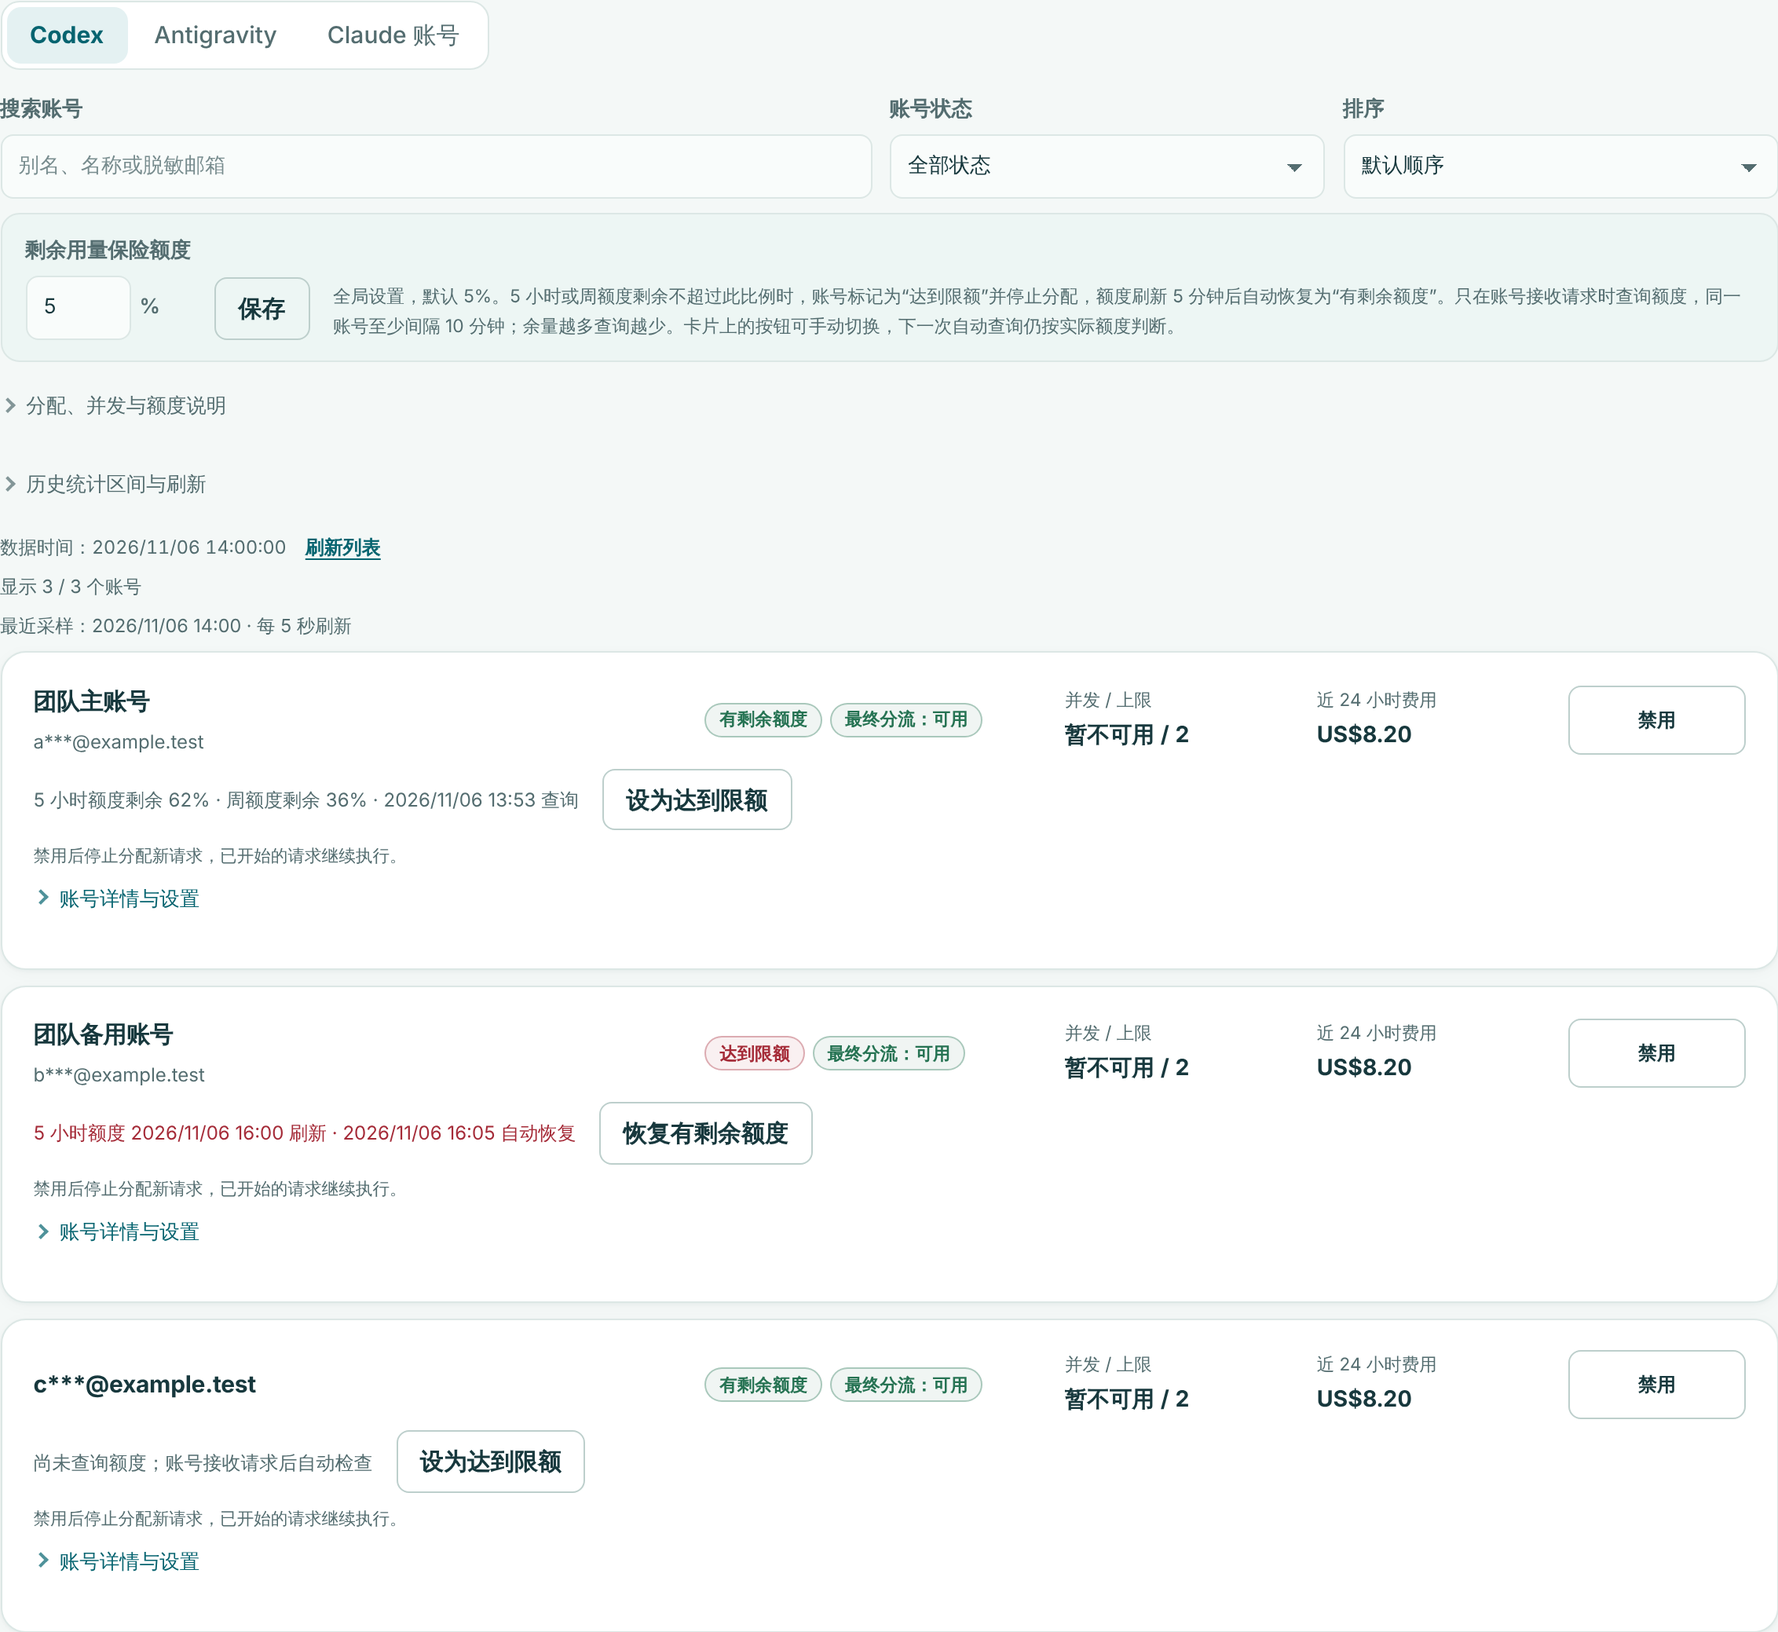
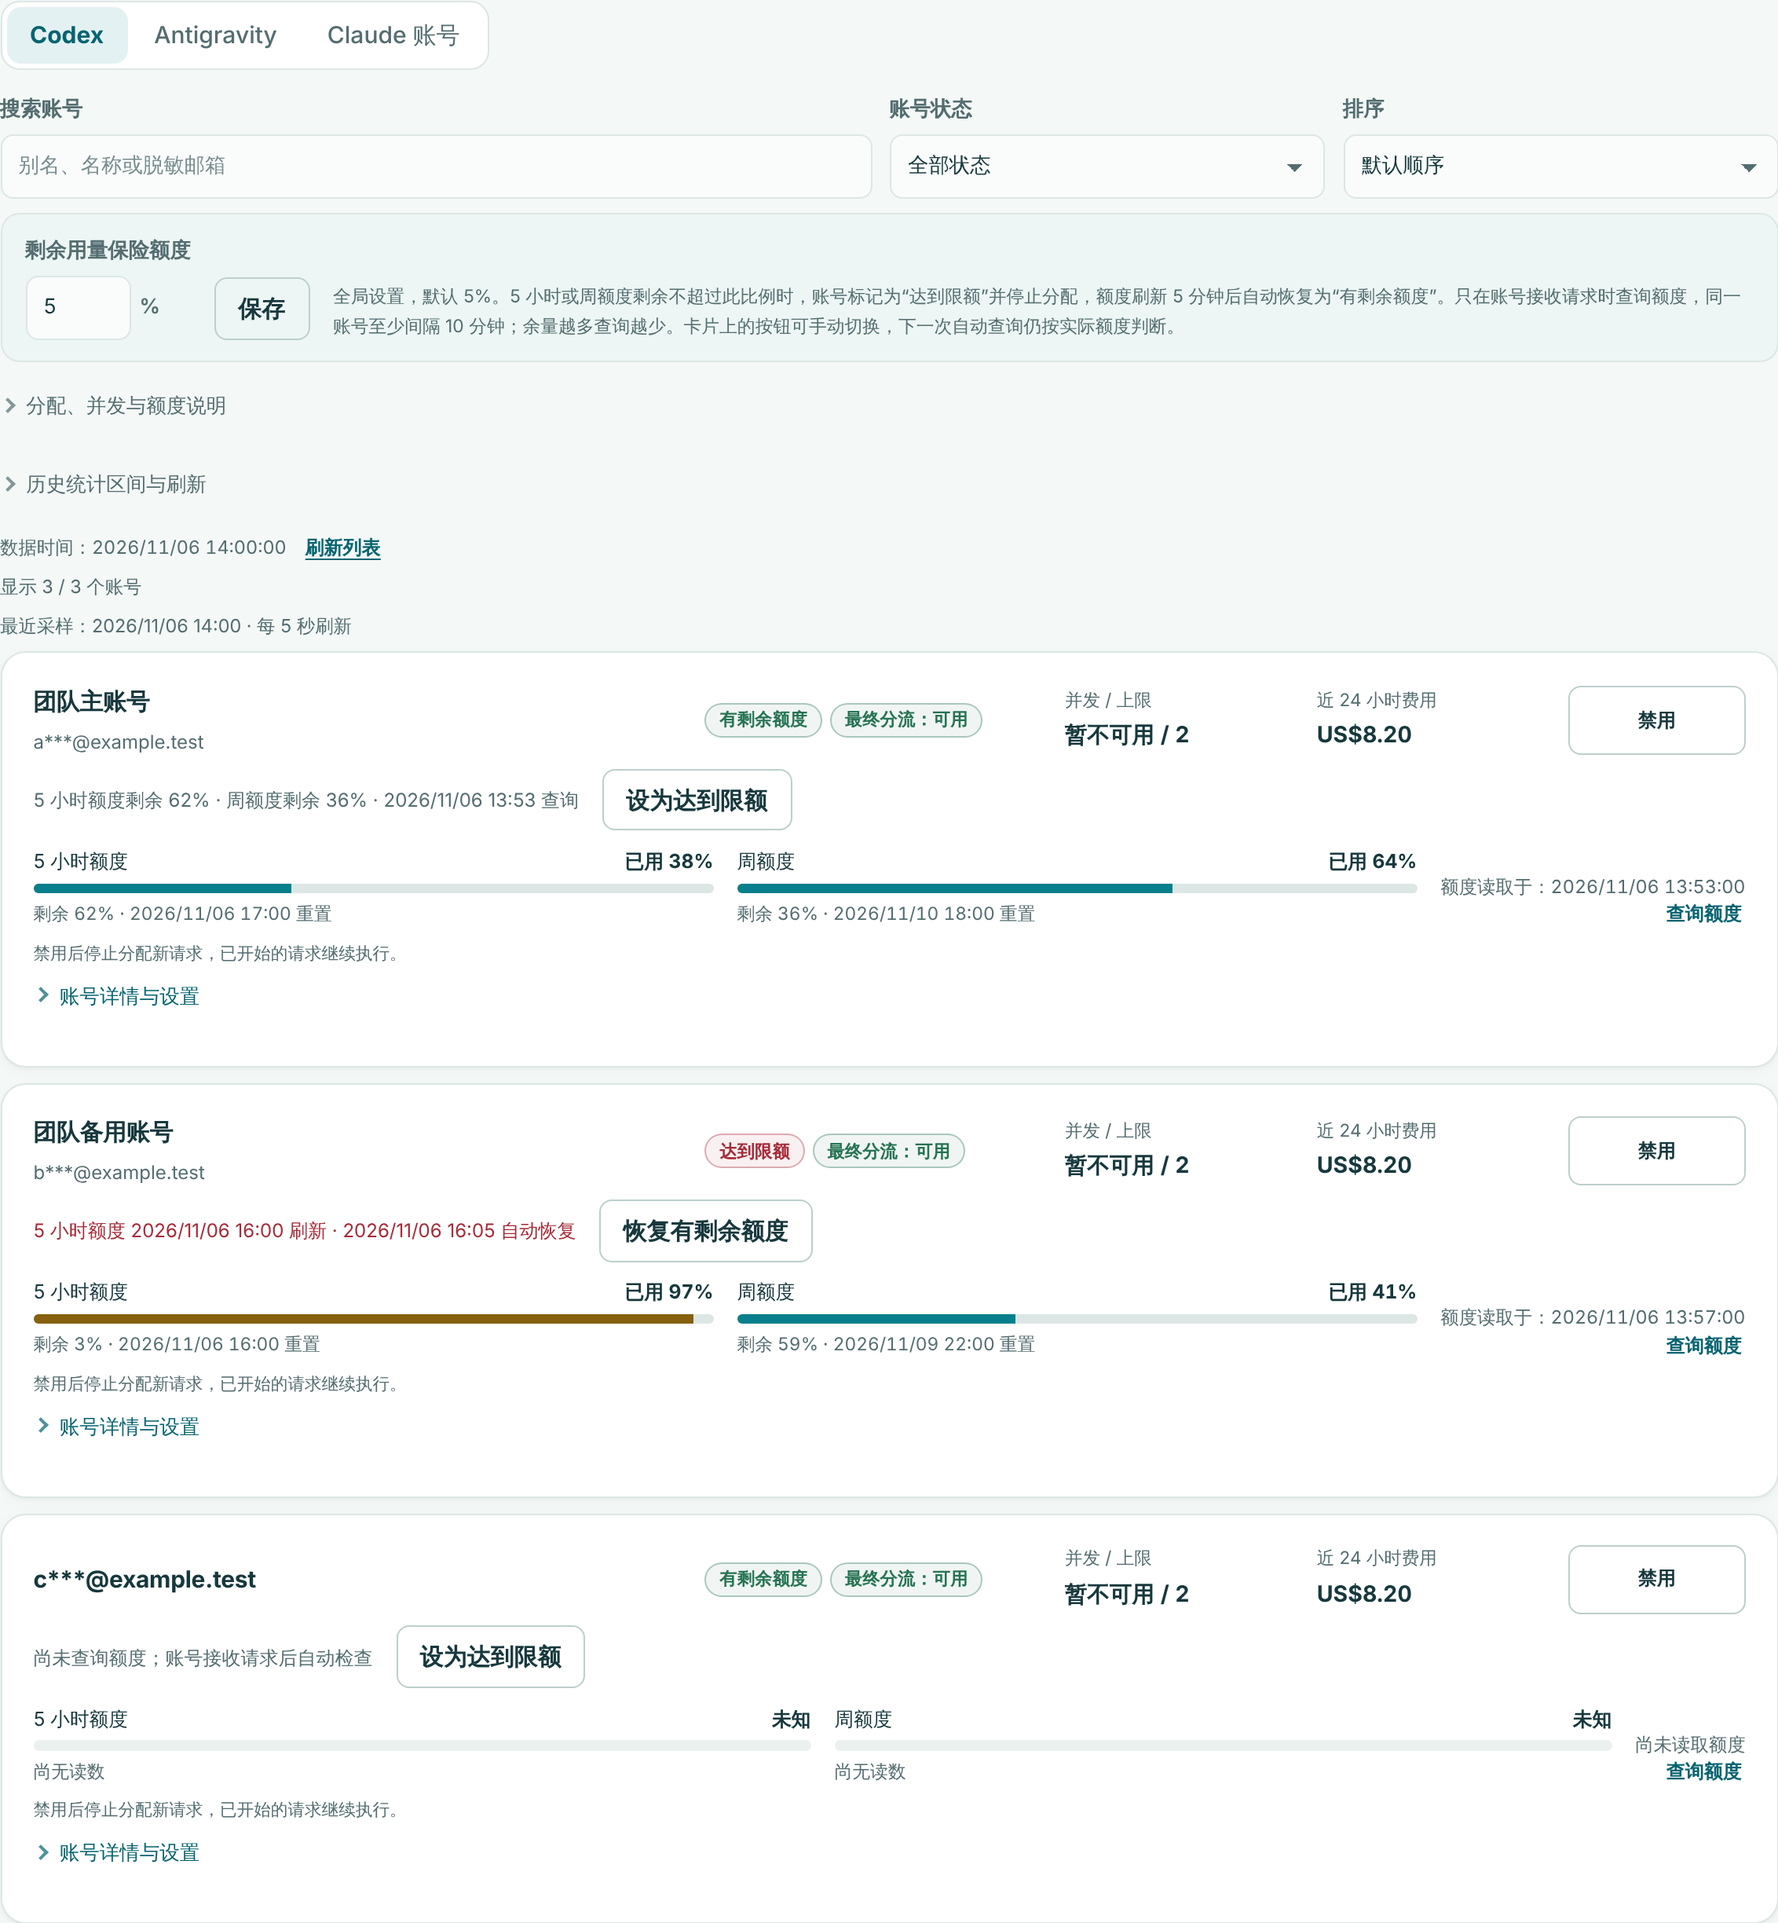
Draw upstream account quota as line bars
Codex and Claude account cards now show the latest 5-hour and weekly
readings from quota_guard as bars with used and remaining percent, reset
time and when they were read; windows at 90% or more turn amber next to
the existing limit badge, and a window whose reset has passed shows as
reset instead of a stale bar. The bars' refresh runs the existing live
quota query and folds the result into the card without reloading the
list. Live quota windows in the account details get the same bars.

Claude-Session: https://claude.ai/code/session_01SG9iqGoSGZ1MM4WDzixgM4

diff --git a/internal/server/assets/app.js b/internal/server/assets/app.js
@@ -483,11 +483,11 @@ function formatDataTime(value, fallback = "未知时间") {
  * balance. `at` is the moment the response arrived (or the upstream's own
  * observation time when one is reported); `label` names what the time means.
  */
-function quotaFreshness({at = null, label = "数据时间", pending = "", onRefresh = null, refreshLabel = "刷新", subject = "额度", className = ""} = {}) {
+function quotaFreshness({at = null, label = "数据时间", pending = "", empty = "", onRefresh = null, refreshLabel = "刷新", subject = "额度", className = ""} = {}) {
   const valid = at && !Number.isNaN(new Date(at).getTime());
   const time = element("time", {
     className: "quota-freshness-time",
-    text: pending || (valid ? `${label}：${formatDataTime(at)}` : `${label}：尚未加载`),
+    text: pending || (valid ? `${label}：${formatDataTime(at)}` : empty || `${label}：尚未加载`),
     attributes: {datetime: valid && !pending ? new Date(at).toISOString() : null},
   });
   const node = element("div", {className: ["quota-freshness", className].filter(Boolean).join(" "), dataset: {state: pending ? "loading" : valid ? "ready" : "empty"}}, time);
@@ -718,6 +718,71 @@ function upstreamQuotaGuardDetail(account) {
     });
   if (!windows.length) return `${manual}尚未查询额度；账号接收请求后自动检查`;
   return `${manual}${windows.join(" · ")} · ${formatDateTime(guard.observed_at, "时间未知")} 查询`;
+}
+
+// Summary-card quota bars: the latest 5-hour and weekly readings the Gateway
+// holds for the account (from automatic checks or the Owner's last query).
+const upstreamQuotaBarProviders = ["codex", "anthropic"];
+
+function upstreamQuotaBar(label, window, now = Date.now()) {
+  const used = Number.isInteger(window?.used_percent) && window.used_percent >= 0 && window.used_percent <= 100 ? window.used_percent : null;
+  const reset = window?.reset_at ? new Date(window.reset_at) : null;
+  const refreshed = Boolean(reset && !Number.isNaN(reset.getTime()) && reset.getTime() <= now);
+  const level = used == null || refreshed ? "unknown" : used >= 90 ? "high" : "normal";
+  return element("div", {className: "upstream-quota-bar", dataset: {level}},
+    element("div", {className: "upstream-quota-bar-head"}, element("span", {text: label}),
+      element("strong", {text: used == null ? "未知" : refreshed ? "已重置" : `已用 ${used}%`})),
+    used == null || refreshed ? element("div", {className: "upstream-quota-bar-empty", attributes: {"aria-hidden": "true"}})
+      : element("progress", {className: "subscription-progress", attributes: {value: used, max: 100, "aria-label": `${label}已用比例`}}),
+    element("small", {text: used == null ? "尚无读数" : refreshed ? `${formatDateTime(reset)} 已重置，等待下次读取` : `剩余 ${100 - used}% · ${formatDateTime(reset, "重置时间未知")} 重置`}));
+}
+
+function renderUpstreamQuotaBars(host, account) {
+  if (!host) return;
+  const guard = account?.quota_guard && typeof account.quota_guard === "object" ? account.quota_guard : {};
+  // Rebuild only when the readings change, so periodic control syncs keep focus.
+  const signature = JSON.stringify([guard.five_hour ?? null, guard.seven_day ?? null, guard.observed_at ?? null]);
+  if (host.dataset.signature === signature && host.children?.length) return;
+  host.dataset.signature = signature;
+  host.replaceChildren(
+    upstreamQuotaBar("5 小时额度", guard.five_hour), upstreamQuotaBar("周额度", guard.seven_day),
+    quotaFreshness({at: guard.observed_at, label: "额度读取于", empty: "尚未读取额度", onRefresh: host.queryQuota,
+      refreshLabel: upstreamAccountProvider === "anthropic" ? "刷新状态" : "查询额度", subject: "该账号的 5 小时与周额度"}));
+}
+
+// Folds a live quota result into the account's readings so the summary bars
+// show what was just read. Codex reports minutes per window; Claude names them.
+function upstreamQuotaReadings(provider, result, receivedAt) {
+  const readings = {observed_at: new Date(receivedAt).toISOString()};
+  if (provider === "anthropic") {
+    if (result?.observed_at) readings.observed_at = result.observed_at;
+    for (const window of Array.isArray(result?.windows) ? result.windows : []) {
+      const used = Number(window?.used_percent);
+      if (!["five_hour", "seven_day"].includes(window?.window) || window.used_percent == null || !Number.isFinite(used) || used < 0 || used > 100) continue;
+      readings[window.window] = {used_percent: Math.round(used), reset_at: window.reset_at || null};
+    }
+    return readings;
+  }
+  const limits = result?.rateLimits && typeof result.rateLimits === "object" ? result.rateLimits : {};
+  for (const window of [limits.primary, limits.secondary]) {
+    if (!window || !Number.isInteger(window.usedPercent)) continue;
+    const name = {300: "five_hour", 10080: "seven_day"}[window.windowDurationMins];
+    if (!name) continue;
+    readings[name] = {used_percent: window.usedPercent,
+      reset_at: Number.isSafeInteger(window.resetsAt) && window.resetsAt > 0 ? new Date(window.resetsAt * 1000).toISOString() : null};
+  }
+  return readings;
+}
+
+function applyUpstreamQuotaReadings(account, provider, result, receivedAt) {
+  if (!account || !upstreamQuotaBarProviders.includes(provider)) return;
+  const readings = upstreamQuotaReadings(provider, result, receivedAt);
+  account.quota_guard = {...(account.quota_guard && typeof account.quota_guard === "object" ? account.quota_guard : {status: "unknown"}), ...readings};
+  const list = byId("upstream-account-list");
+  const card = list ? all(".upstream-account-card", list).find((node) => node.dataset.accountId === account.id) : null;
+  renderUpstreamQuotaBars(card?.querySelector(".upstream-quota-bars"), account);
+  const detail = card?.querySelector(".upstream-quota-guard-detail");
+  if (detail) detail.textContent = upstreamQuotaGuardDetail(account);
 }
 
 function upstreamAccountAPI(path) {
@@ -7876,9 +7941,10 @@ function upstreamQuotaWindow(bucketLabel, windowLabel, quotaWindow) {
     : null;
   const used = usedPercent == null ? "上游未返回" : `${usedPercent}%`;
   const remaining = usedPercent == null ? "上游未返回" : `${100 - usedPercent}%`;
-  return element("article", {className: "upstream-quota-window"},
+  return element("article", {className: "upstream-quota-window", dataset: {level: usedPercent == null ? "unknown" : usedPercent >= 90 ? "high" : "normal"}},
     element("strong", {text: `${bucketLabel} · ${windowLabel} · ${formatUpstreamQuotaDuration(value.windowDurationMins)}`}),
     element("span", {text: `已用 ${used} · 剩余 ${remaining}`}),
+    usedPercent == null ? null : element("progress", {className: "subscription-progress", attributes: {value: usedPercent, max: 100, "aria-label": `${bucketLabel}${windowLabel}已用比例`}}),
     element("small", {text: `重置：${formatUpstreamQuotaReset(value.resetsAt)}`}),
   );
 }
@@ -7971,9 +8037,11 @@ function renderAnthropicQuota(container, result) {
     element("div", {className: "upstream-quota-windows"}, ...["five_hour", "seven_day"].map(name => {
       const value = windows.find(item => item.window === name);
       const used = value?.used_percent;
-      return element("article", {className: "upstream-quota-window"},
+      const known = Number.isFinite(used) && used >= 0 && used <= 100;
+      return element("article", {className: "upstream-quota-window", dataset: {level: !known ? "unknown" : used >= 90 ? "high" : "normal"}},
         element("strong", {text: name === "five_hour" ? "五小时窗口" : "七天窗口"}),
-        element("span", {text: Number.isFinite(used) && used >= 0 && used <= 100 ? `已用 ${used}% · 剩余 ${100 - used}%` : "额度：未知"}),
+        element("span", {text: known ? `已用 ${used}% · 剩余 ${100 - used}%` : "额度：未知"}),
+        known ? element("progress", {className: "subscription-progress", attributes: {value: used, max: 100, "aria-label": `${name === "five_hour" ? "五小时窗口" : "七天窗口"}已用比例`}}) : null,
         element("small", {text: `重置：${formatDateTime(value?.reset_at, "未知")}`}),
         element("small", {text: `状态：${({allowed: "可用", allowed_warning: "接近限额", rejected: "达到限额", unknown: "未知"})[value?.status] || "未知"}`}),
       );
@@ -8002,6 +8070,7 @@ async function loadUpstreamQuota(account, quotaBlock, container) {
       if (!response || !Array.isArray(response.windows)) throw new Error("Claude 状态快照格式异常。");
       upstreamAccountRowState(account.id, provider).quota = {result: response, receivedAt: new Date()};
       renderAnthropicQuota(container, response);
+      applyUpstreamQuotaReadings(account, provider, response, new Date());
       announce("Claude 状态快照已刷新。");
       return;
     }
@@ -8012,6 +8081,7 @@ async function loadUpstreamQuota(account, quotaBlock, container) {
     if (!current()) return;
     upstreamAccountRowState(account.id, provider).quota = {result: response.result, receivedAt};
     renderUpstreamQuota(account, container, response.result, receivedAt);
+    applyUpstreamQuotaReadings(account, provider, response.result, receivedAt);
     announce(`已查询 ${upstreamAccountLabel(account, account.email_masked || "该上游账号")} 的官方额度。`);
   } catch (error) {
     if (!current()) return;
@@ -8052,6 +8122,7 @@ function syncUpstreamAccountControls() {
     if (guardRow) {
       guardRow.dataset.status = guardStatus;
       guardRow.querySelector(".upstream-quota-guard-detail").textContent = upstreamQuotaGuardDetail(account);
+      renderUpstreamQuotaBars(card.querySelector(".upstream-quota-bars"), account);
       const guardButton = guardRow.querySelector(".upstream-quota-guard-button");
       const switchingGuard = upstreamAccountOperation?.id === account.id && upstreamAccountOperation.kind === "quota_guard";
       guardButton.disabled = !account.id || guardStatus === "unknown" || upstreamAccountListLoading || Boolean(upstreamAccountOperation) || loggingOut || state?.user?.role !== "owner";
@@ -9351,6 +9422,12 @@ function upstreamAccountCard(account) {
     guardRow = element("div", {className: "upstream-quota-guard"},
       element("span", {className: "upstream-quota-guard-detail"}), guardButton);
   }
+  const quotaBars = upstreamQuotaBarProviders.includes(upstreamAccountProvider) && account.id
+    ? element("div", {className: "upstream-quota-bars", attributes: {"aria-label": "5 小时与周额度"}}) : null;
+  if (quotaBars) {
+    quotaBars.queryQuota = () => loadUpstreamQuota(account, quotaBlock, quotaResult);
+    renderUpstreamQuotaBars(quotaBars, account);
+  }
   const details = element("details", {className: "upstream-account-details"},
     element("summary", {text: "账号详情与设置"}),
     element("div", {className: "upstream-account-full-status"}, ...(guarded ? [upstreamQuotaGuardBadge(account)] : []), ...badges.slice(0, 3)),
@@ -9393,6 +9470,7 @@ function upstreamAccountCard(account) {
       statusButton,
     ),
     ...(guardRow ? [guardRow] : []),
+    ...(quotaBars ? [quotaBars] : []),
     element("p", {className: "upstream-account-manage-note hidden muted"}),
     element("p", {className: "upstream-summary-allocation-state hidden"}),
     element("small", {className: "upstream-status-impact", text: "禁用后停止分配新请求，已开始的请求继续执行。"}),

diff --git a/internal/server/assets/style.css b/internal/server/assets/style.css
@@ -4145,6 +4145,22 @@ button.share-bar-key:hover, .share-bar-key[aria-pressed="true"] { background: va
 .group-account-quota .billing-account-usage-card > small { color: var(--muted); font-size: .78rem; }
 .group-usage-account header small, .group-usage-account-summary { color: var(--muted); font-size: .78rem; font-variant-numeric: tabular-nums; }
 
+/* Upstream accounts: 5-hour and weekly readings as line bars on every card. */
+.upstream-quota-bars { display: grid; grid-template-columns: repeat(2, minmax(0, 1fr)) minmax(0, auto); align-items: end; gap: .5rem 1rem; margin-top: .65rem; }
+.upstream-quota-bar { display: grid; gap: .25rem; min-width: 0; }
+.upstream-quota-bar-head { display: flex; justify-content: space-between; gap: .5rem; font-size: .82rem; }
+.upstream-quota-bar-head strong { font-variant-numeric: tabular-nums; }
+.upstream-quota-bar small { color: var(--muted); font-size: .76rem; font-variant-numeric: tabular-nums; }
+.upstream-quota-bar-empty { height: .45rem; border-radius: 1rem; background: var(--line); opacity: .6; }
+.upstream-quota-bars > .quota-freshness { flex-direction: column; align-items: flex-end; gap: 0; margin-top: 0; text-align: right; }
+[data-level="high"] > .subscription-progress::-webkit-progress-value { background: var(--warning); }
+[data-level="high"] > .subscription-progress::-moz-progress-bar { background: var(--warning); }
+.upstream-quota-window progress { display: block; margin-top: .35rem; }
+@media (max-width: 720px) {
+  .upstream-quota-bars { grid-template-columns: repeat(2, minmax(0, 1fr)); }
+  .upstream-quota-bars > .quota-freshness { grid-column: 1 / -1; flex-direction: row; align-items: center; text-align: left; }
+}
+
 /* Quota freshness: when the numbers on screen were read, with a refresh beside it. */
 .quota-freshness { display: flex; flex-wrap: wrap; align-items: center; gap: .1rem .65rem; min-width: 0; margin-top: .35rem; }
 .quota-freshness .quota-freshness-time, .quota-freshness > small { display: inline; margin: 0; color: var(--muted); font-size: .78rem; line-height: 1.45; font-variant-numeric: tabular-nums; }

diff --git a/README.md b/README.md
@@ -462,6 +462,9 @@ B 的 WireGuard UDP 与私网 Squid 防火墙按中转教程配置。
 ### 4. 添加或刷新上游账号
 
 Owner 可在控制台“上游账号”页禁用或重新启用账号，操作需要近期身份验证。
+Codex 与 Claude 账号卡片直接以线形图显示网关最近读到的 5 小时与周额度（已用比例、
+剩余与重置时间，已用 90% 起改用警示色），旁边标注读取时间和“查询额度/刷新状态”
+按钮；查询结果会立即更新线形图，账号详情中的即时额度窗口也附带同样的线形图。
 同页可设置非负整数分配系数（默认 1）；新会话按当前可用候选的系数与近 24
 小时已结算费用补齐欠配，系数 0 停止接收新对话而保留有效会话绑定。
 页面费用窗口独立于历史筛选，实际目标随模型及候选可用性重新计算。
